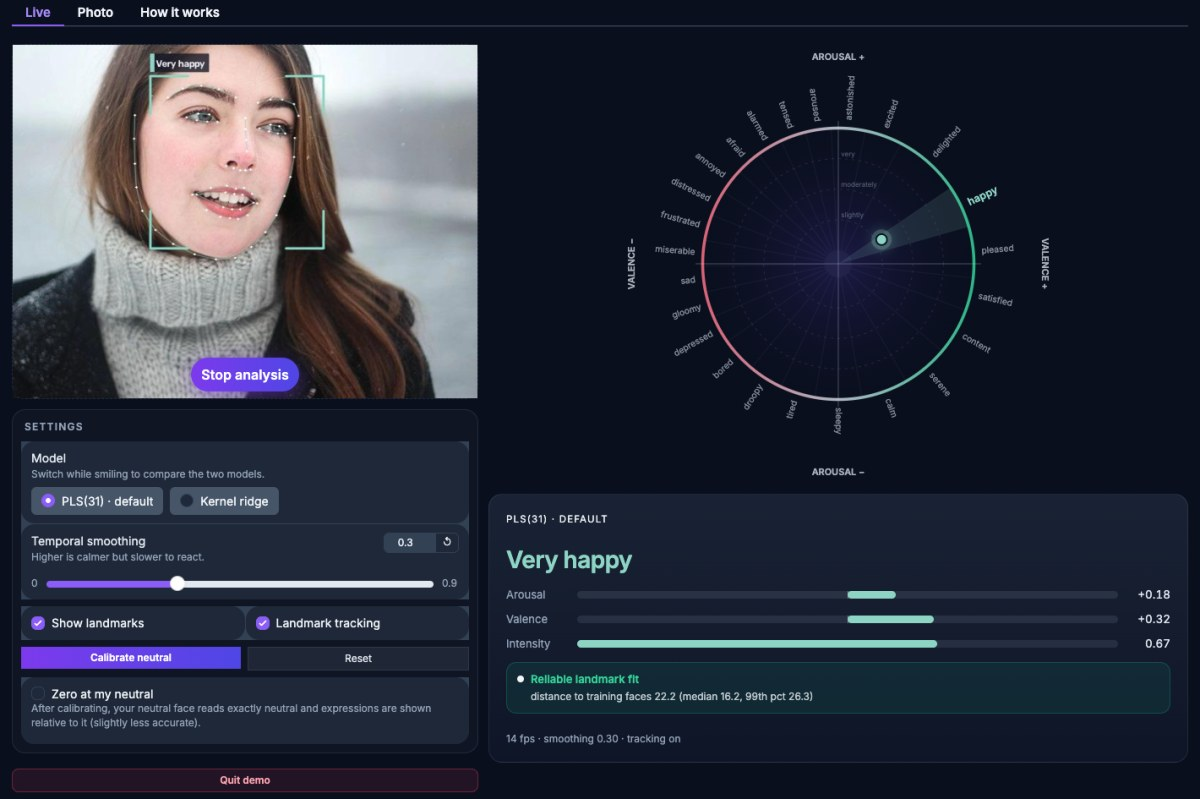
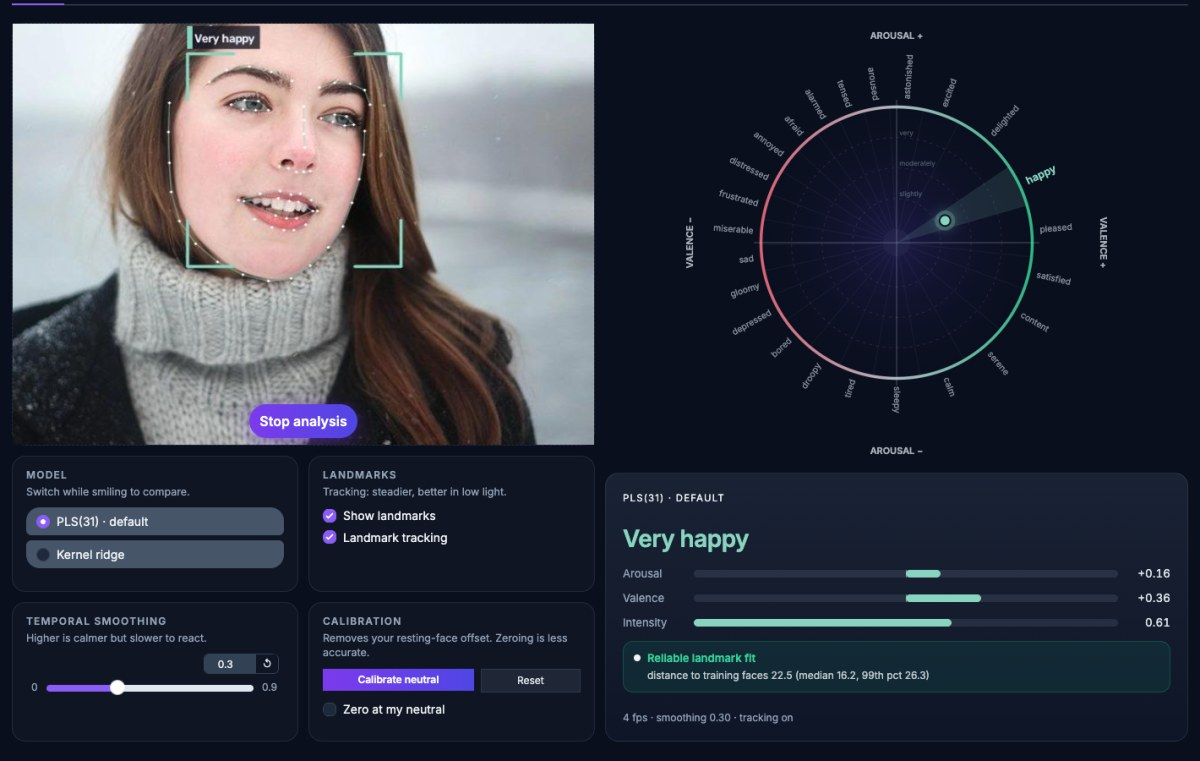
Adaptive blur for the robust fit; grouped, aligned live-tab layout
Tracker: the fixed Gaussian blur made the fit fall short of wide-open
mouths (scream: lip opening 3.9% of the eye distance short), which the
author saw live. The blur now adapts to the face region's measured
noise (Immerkaer estimator): none below 5 grey levels, full strength
(sigma = box/110) at 15. Clean video improves (landmark error 1.44% ->
1.34%); low-light results are unchanged (experiment 13 re-run).

Web demo: settings in four group boxes (model, landmarks, smoothing,
calibration) in a 2x2 grid; Quit in the top-right corner; equal 50/50
columns whose bottoms line up (the AV plane now fills its column);
camera 500 px high. Geometry verified identical across streaming,
countdown, calibrated, zero mode and stopped, at 1440 and 1200 px; the
layout stacks on phones.

Claude-Session: https://claude.ai/code/session_01VNTeVae7v3LQXi4TSodUKv

diff --git a/app/style.css b/app/style.css
@@ -263,3 +263,39 @@ button[role="tab"][aria-selected="true"] { color: var(--fea-accent) !important; 
 .fea-col > *, .fea-plane { flex: 0 0 auto !important; }
 .fea-cam { height: 420px !important; max-height: 420px !important; }
 .fea-settings-block > div:not(.block) { border: none !important; background: transparent !important; padding: 0 !important; box-shadow: none !important; }
+
+
+/* ------------------------------------------------------------------ live layout v3 */
+/* Quit sits in the page's top-right corner */
+.fea-topbar { position: absolute !important; top: 14px; right: 20px; z-index: 50; width: auto !important; min-width: 0 !important; flex-grow: 0 !important; }
+.fea-topbar .fea-quit, .fea-topbar button { width: auto !important; min-width: 0 !important; padding: 4px 14px !important; }
+/* the two columns end at the same line: the last panel of each column fills */
+.fea-grid-row { align-items: stretch !important; }
+.fea-col-left > .fea-settings { flex: 1 1 auto !important; }
+.fea-col-right > .block:last-child { flex: 1 1 auto !important; display: flex !important; flex-direction: column; }
+.fea-col-right > .block:last-child > .html-container,
+.fea-col-right > .block:last-child .prose { flex: 1 1 auto; display: flex; flex-direction: column; height: 100%; }
+.fea-col-right .fea-est { flex: 1 1 auto; height: auto !important; min-height: 318px; }
+.fea-cam { height: 500px !important; max-height: 500px !important; }
+/* settings: four group boxes, 2 x 2 */
+.fea-settings { gap: 12px !important; padding: 0 !important; background: transparent !important; border: none !important; }
+.fea-settings-row { flex: 1 1 auto !important; gap: 12px !important; align-items: stretch !important; flex-wrap: wrap; }
+.fea-settings-row > .fea-group { flex: 1 1 240px !important; min-width: 220px !important; }
+.fea-settings-row > .fea-group {
+  background: var(--fea-card) !important; border: 1px solid var(--fea-border) !important;
+  border-radius: 16px !important; padding: 14px 16px !important;
+}
+/* Gradio repeats the class on an inner div: that one, and the form inside, stay plain */
+.fea-group .fea-group { background: transparent !important; border: none !important; padding: 0 !important; border-radius: 0 !important; }
+.fea-group .styler { background: transparent !important; gap: 10px !important; }
+.fea-group .form { background: transparent !important; border: none !important; gap: 6px !important; }
+.fea-group .block { background: transparent !important; border: none !important; box-shadow: none !important; padding: 0 !important; }
+.fea-group-head .fea-section-title { padding: 0 !important; }
+.fea-group-hint { font-size: 12.5px; color: var(--fea-muted); line-height: 1.4; margin-top: 2px; }
+.fea-radio-stack .wrap { flex-direction: column !important; align-items: stretch !important; gap: 6px !important; }
+.fea-radio-stack label { width: 100%; }
+.fea-group .fea-calib-row { gap: 8px !important; flex-wrap: nowrap; }
+.fea-group .fea-slider { padding: 0 6px !important; }
+.fea-group .fea-calib-row > * { flex: 1 1 0 !important; min-width: 0 !important; }
+.fea-group .fea-calib-row > .fea-calibrate { flex-grow: 1.6 !important; }
+.fea-group .fea-calib-row button { min-width: 0 !important; white-space: nowrap; overflow: hidden; text-overflow: ellipsis; }

diff --git a/app/app.py b/app/app.py
@@ -274,21 +274,37 @@ FORCE_DARK = """
 
 
 # ----------------------------------------------------------------------------- layout
+CAM_HEIGHT = 500
+
+
+def _group_title(title: str, hint: str) -> None:
+    gr.HTML(
+        f'<div class="fea-section-title">{title}</div><div class="fea-group-hint">{hint}</div>',
+        elem_classes="fea-html-plain fea-group-head",
+    )
+
+
 def build() -> gr.Blocks:
     with gr.Blocks(title="Facial Expression Analysis", fill_width=True) as demo:
+        if ALLOW_QUIT:  # top-right corner of the page, away from the settings
+            with gr.Row(elem_classes="fea-topbar"):
+                quit_btn = gr.Button(
+                    "Quit demo", variant="stop", size="sm", elem_classes="fea-quit"
+                )
+            quit_btn.click(quit_app, None, None, queue=False).then(None, None, None, js=GOODBYE_JS)
         gr.HTML(HERO, elem_classes="fea-html-plain")
         with gr.Tabs():
             with gr.Tab("Live", id="live"):
                 state = gr.State(LiveState())
-                # Two columns that stack independently (no gaps):
-                #   camera + settings (40%)  |  AV plane + estimates (60%)
-                with gr.Row(equal_height=False, elem_classes="fea-grid-row"):
-                    with gr.Column(scale=2, min_width=300, elem_classes="fea-col"):
+                # Two equal columns whose bottoms line up:
+                #   camera + settings  |  AV plane + estimates
+                with gr.Row(equal_height=True, elem_classes="fea-grid-row"):
+                    with gr.Column(scale=1, min_width=320, elem_classes="fea-col fea-col-left"):
                         with gr.Column(elem_classes="fea-stage"):
                             cam = gr.Image(
                                 sources=["webcam"], streaming=True, type="numpy",
                                 show_label=False, webcam_options=gr.WebcamOptions(mirror=True),
-                                elem_classes="fea-cam", height=420,
+                                elem_classes="fea-cam", height=CAM_HEIGHT,
                             )  # fmt: skip
                             # Drawn exactly over the raw preview, so the user sees one feed;
                             # the camera's own start/stop button stays on top (see style.css).
@@ -296,33 +312,45 @@ def build() -> gr.Blocks:
                                 show_label=False, interactive=False, buttons=[], format="jpeg",
                                 elem_classes="fea-overlay",
                             )  # fmt: skip
-                        with gr.Group(elem_classes="fea-settings-block"):
-                            gr.HTML(
-                                '<div class="fea-section-title">Settings</div>',
-                                elem_classes="fea-html-plain",
-                            )
-                            model = gr.Radio(
-                                list(MODELS), value=DEFAULT_MODEL, label="Model",
-                                info="Switch while smiling to compare the two models.",
-                            )  # fmt: skip
-                            smoothing = gr.Slider(
-                                0, 0.9, value=0.3, step=0.05, label="Temporal smoothing",
-                                info="Higher is calmer but slower to react.",
-                            )  # fmt: skip
-                            with gr.Row(elem_classes="fea-check-row"):
-                                show_lm = gr.Checkbox(True, label="Show landmarks")
-                                tracking = gr.Checkbox(True, label="Landmark tracking")
-                            with gr.Row(elem_classes="fea-calib-row"):
-                                calibrate_btn = gr.Button(
-                                    "Calibrate neutral", size="sm", elem_classes="fea-calibrate"
-                                )
-                                reset_btn = gr.Button("Reset", size="sm", elem_classes="fea-reset")
-                            zero = gr.Checkbox(
-                                False, label="Zero at my neutral",
-                                info="After calibrating, your neutral face reads exactly "
-                                "neutral and expressions are shown relative to it "
-                                "(slightly less accurate).",
-                            )  # fmt: skip
+                        # Settings: four group boxes in a 2 x 2 grid
+                        with gr.Column(elem_classes="fea-settings"):
+                            with gr.Row(equal_height=True, elem_classes="fea-settings-row"):
+                                with gr.Group(elem_classes="fea-group"):
+                                    _group_title("Model", "Switch while smiling to compare.")
+                                    model = gr.Radio(
+                                        list(MODELS), value=DEFAULT_MODEL, show_label=False,
+                                        elem_classes="fea-radio-stack",
+                                    )  # fmt: skip
+                                with gr.Group(elem_classes="fea-group"):
+                                    _group_title(
+                                        "Landmarks", "Tracking: steadier, better in low light."
+                                    )
+                                    show_lm = gr.Checkbox(True, label="Show landmarks")
+                                    tracking = gr.Checkbox(True, label="Landmark tracking")
+                            with gr.Row(equal_height=True, elem_classes="fea-settings-row"):
+                                with gr.Group(elem_classes="fea-group"):
+                                    _group_title(
+                                        "Temporal smoothing",
+                                        "Higher is calmer but slower to react.",
+                                    )
+                                    smoothing = gr.Slider(
+                                        0, 0.9, value=0.3, step=0.05, show_label=False,
+                                        elem_classes="fea-slider",
+                                    )  # fmt: skip
+                                with gr.Group(elem_classes="fea-group"):
+                                    _group_title(
+                                        "Calibration",
+                                        "Removes your resting-face offset. Zeroing is less accurate.",
+                                    )
+                                    with gr.Row(elem_classes="fea-calib-row"):
+                                        calibrate_btn = gr.Button(
+                                            "Calibrate neutral", size="sm",
+                                            elem_classes="fea-calibrate",
+                                        )  # fmt: skip
+                                        reset_btn = gr.Button(
+                                            "Reset", size="sm", elem_classes="fea-reset"
+                                        )
+                                    zero = gr.Checkbox(False, label="Zero at my neutral")
                         # Clicks reach the stream as counters, so a click can never be
                         # overwritten by a frame that is still being processed.
                         calibrate_clicks = gr.Number(0, visible=False)
@@ -333,15 +361,7 @@ def build() -> gr.Blocks:
                         reset_btn.click(
                             lambda n: (n or 0) + 1, reset_clicks, reset_clicks, queue=False
                         )
-                        if ALLOW_QUIT:
-                            quit_btn = gr.Button(
-                                "Quit demo", variant="stop", size="sm",
-                                elem_classes="fea-quit",
-                            )  # fmt: skip
-                            quit_btn.click(quit_app, None, None, queue=False).then(
-                                None, None, None, js=GOODBYE_JS
-                            )
-                    with gr.Column(scale=3, min_width=380, elem_classes="fea-col"):
+                    with gr.Column(scale=1, min_width=320, elem_classes="fea-col fea-col-right"):
                         with gr.Column(elem_classes="fea-plane"):
                             live_circ = gr.HTML(
                                 _wrap_svg(circumplex_svg(size=640)),

diff --git a/src/facial_expression_analysis/landmarks/dlib_detector.py b/src/facial_expression_analysis/landmarks/dlib_detector.py
@@ -22,6 +22,15 @@ TARGET_FACE_CONTRAST = 43.7
 # Detection images whose 1st-99th percentile grey-level range is narrower than this are
 # stretched linearly to 0..255 before running the HOG detector.
 MIN_DETECTION_RANGE = 150.0
+# Adaptive Gaussian blur before a robust fit, against sensor noise. Its sigma is
+# (box width / BLUR_DIVISOR) x a ramp from 0 at NOISE_NO_BLUR to 1 at NOISE_FULL_BLUR, where
+# noise is the face region's noise std in grey levels (after the contrast gain). A fixed blur
+# makes the fitter under-reach wide-open mouths in good light; noise levels measured on
+# simulated video: well lit < 5 (sharp photos 2-5), dim ~7, night with auto-gain ~15.
+BLUR_DIVISOR = 110.0
+NOISE_NO_BLUR = 5.0
+NOISE_FULL_BLUR = 15.0
+_LAPLACIAN_NOISE_KERNEL = np.array([[1, -2, 1], [-2, 4, -2], [1, -2, 1]], dtype=np.float32)
 # Relative box offsets (dx, dy as a fraction of the box width) of the averaged fits.
 _FIT_OFFSETS = ((0.0, 0.0), (0.04, 0.0), (-0.04, 0.0), (0.0, 0.04), (0.0, -0.04))
 
@@ -38,6 +47,8 @@ class LandmarkFit:
 
     landmarks: NDArray[np.float64]
     spread: float
+    noise: float = 0.0
+    """Estimated noise std of the face region in grey levels (robust fits only)."""
 
 
 def _box_array(box: BoxLike) -> NDArray[np.float64]:
@@ -147,7 +158,9 @@ class DlibLandmarkDetector:
         * a linear contrast gain (never a reduction) brings the face box to the contrast
           of a well-lit face, because dlib's fitter compares raw pixel differences with
           fixed thresholds and loses accuracy on dim, flat faces;
-        * a slight Gaussian blur (sigma = box width / 110 px) suppresses sensor noise;
+        * an adaptive Gaussian blur suppresses sensor noise: none on a clean face (a blur
+          would stop the fit from reaching wide-open mouths), up to sigma = box width /
+          110 px when the face region is very noisy;
         * the fit is repeated from five slightly shifted boxes and averaged, which halves
           frame-to-frame jitter; their disagreement is returned as ``spread``.
         """
@@ -166,12 +179,17 @@ class DlibLandmarkDetector:
             return LandmarkFit(self._fit_once(gray, b), 1.0)
         crop: NDArray[np.float32] = gray[y0:y1, x0:x1].astype(np.float32)
         inner = gray[int(max(b[1], 0)) : int(max(b[3], 1)), int(max(b[0], 0)) : int(max(b[2], 1))]
+        gain = 1.0
         if inner.size:
             std = float(inner.std())
             if std < TARGET_FACE_CONTRAST:
                 gain = TARGET_FACE_CONTRAST / max(std, 1.0)
                 crop = ((crop - float(inner.mean())) * gain + 128.0).astype(np.float32)
-        crop = np.asarray(cv2.GaussianBlur(crop, (0, 0), w / 110.0), dtype=np.float32)
+        noise = estimate_noise(inner.astype(np.float32)) * gain if inner.size else 0.0
+        ramp = (noise - NOISE_NO_BLUR) / (NOISE_FULL_BLUR - NOISE_NO_BLUR)
+        sigma = w / BLUR_DIVISOR * float(np.clip(ramp, 0.0, 1.0))
+        if sigma > 0.05:
+            crop = np.asarray(cv2.GaussianBlur(crop, (0, 0), sigma), dtype=np.float32)
         img = np.ascontiguousarray(np.clip(np.round(crop), 0, 255).astype(np.uint8))
 
         offset = np.array([x0, y0, x0, y0], dtype=np.float64)
@@ -182,7 +200,17 @@ class DlibLandmarkDetector:
         mean = fits.mean(axis=0)
         io = float(np.linalg.norm(mean[36] - mean[45]))
         spread = float(np.sqrt(((fits - mean) ** 2).sum(-1).mean(0)).mean() / max(io, 1e-6))
-        return LandmarkFit(mean + offset[:2], spread)
+        return LandmarkFit(mean + offset[:2], spread, noise)
+
+
+def estimate_noise(image: NDArray[np.float32]) -> float:
+    """Noise standard deviation of an image (Immerkaer, CVIU 1996): fast and edge-robust."""
+    import cv2
+
+    if min(image.shape[:2]) < 3:
+        return 0.0
+    response = cv2.filter2D(np.asarray(image, dtype=np.float32), -1, _LAPLACIAN_NOISE_KERNEL)
+    return float(np.sqrt(np.pi / 2) * np.abs(response[1:-1, 1:-1]).mean() / 6.0)
 
 
 def to_gray(image: NDArray[np.uint8]) -> NDArray[np.uint8]:

diff --git a/tests/test_tracker.py b/tests/test_tracker.py
@@ -131,3 +131,15 @@ def test_tracker_follows_a_moving_face_and_drops_it_when_it_leaves(frame) -> Non
     tracker.reset()
     assert tracker.frame == 0
     assert tracker.tracks == []
+
+
+def test_noise_estimate_tracks_added_noise() -> None:
+    from facial_expression_analysis.landmarks.dlib_detector import estimate_noise
+
+    rng = np.random.default_rng(0)
+    yy, xx = np.mgrid[0:120, 0:120]
+    smooth = (128 + 60 * np.sin(xx / 15.0) * np.cos(yy / 20.0)).astype(np.float32)
+    assert estimate_noise(smooth) < 1.0
+    for sigma in (5.0, 15.0):
+        noisy = smooth + rng.normal(0, sigma, smooth.shape).astype(np.float32)
+        assert abs(estimate_noise(noisy) - sigma) < 0.15 * sigma

diff --git a/README.md b/README.md
@@ -66,14 +66,16 @@ scripts/web_demo.sh --share    # also prints a temporary public link (e.g. to tr
 ```
 
 - **Live** tab: click *Click to Access Webcam*, then *Start analysis*. It shows up to four
-  faces, each with its own colour and trail on the arousal-valence plane. Settings:
-  - **Model** switches between PLS(31) and kernel ridge on the same input.
-  - **Temporal smoothing** trades calm against reaction speed.
-  - **Show landmarks** toggles the landmark overlay.
-  - **Landmark tracking** (on by default) keeps the landmarks steadier and helps in low light.
-  - **Calibrate neutral** removes your resting-face offset after a 3-second countdown. Keep a
-    relaxed face.
-  - **Zero at my neutral** makes your calibrated neutral read exactly (0, 0, 0).
+  faces, each with its own colour and trail on the arousal-valence plane. The settings are in
+  four boxes:
+  - **Model:** PLS(31) or kernel ridge, switchable on the same input.
+  - **Landmarks:** *Show landmarks* toggles the overlay; *Landmark tracking* (on by default)
+    keeps the landmarks steadier and helps in low light.
+  - **Temporal smoothing:** trades calm against reaction speed.
+  - **Calibration:** *Calibrate neutral* removes your resting-face offset after a 3-second
+    countdown (keep a relaxed face); *Reset* clears it; *Zero at my neutral* makes your
+    calibrated neutral read exactly (0, 0, 0).
+  - *Quit demo* (top-right corner) stops the local server.
 - **Photo** tab: upload a photo or pick an example. Every face is analysed, and each gets a
   landmark-fit reliability badge.
 - **How it works** tab: the method in brief.
@@ -266,7 +268,12 @@ smoothing, with no CLAHE or other local enhancement that would distort the face:
 
 - **Contrast gain:** if the face box is dimmer than a typical well-lit face (grey-level std
   < 43.7), it gets a linear contrast gain. Contrast is never reduced.
-- **Blur:** a slight Gaussian blur (σ = box width / 110 px) suppresses sensor noise.
+- **Adaptive blur:** the noise in the face region is measured on every frame (Immerkær's
+  estimator), and a Gaussian blur is applied only as far as needed. There is none below a noise
+  level of 5 grey levels, rising to σ = box width / 110 px at 15 (a dark room with camera
+  auto-gain). A fixed blur made the fit fall short of wide-open mouths (a scream's lip opening
+  was 3.9% of the eye distance short); adaptive blur removes that in good light and keeps the
+  full noise suppression in the dark.
 - **Averaging:** the fit is repeated from five boxes shifted by ±4% and averaged.
 - **Spread as a loss signal:** the disagreement between those five fits (*spread*) is below
   2% on faces and above 3% when the box no longer holds a face. Above 3% on two frames in a
@@ -283,11 +290,11 @@ model:
 | Condition | Pipeline | Landmark error | Landmark jitter | A/V jitter | Frames without a face |
 |---|---|---|---|---|---|
 | Clean | detector every frame (v1) | 1.58% | 1.44% | 0.171 | 0.1% |
-| Clean | **tracker** | **1.44%** | **0.73%** | **0.096** | **0.0%** |
+| Clean | **tracker** | **1.34%** | **0.76%** | **0.096** | **0.0%** |
 | Night, camera auto-gain | detector every frame | 2.84% | 2.92% | 0.236 | 10.2% |
-| Night, camera auto-gain | **tracker** | **1.58%** | **1.16%** | **0.113** | **5.6%** |
+| Night, camera auto-gain | **tracker** | **1.57%** | **1.16%** | **0.113** | **5.8%** |
 | Dark, no auto-gain | detector every frame | 9.86% | 4.48% | 0.168 | 50.1% |
-| Dark, no auto-gain | **tracker** | **1.66%** | **1.15%** | **0.113** | **5.3%** |
+| Dark, no auto-gain | **tracker** | **1.62%** | **1.18%** | **0.113** | **5.3%** |
 
 The tracker is also about twice as fast: 5.9 ms against 12.3 ms per 640 px frame. Single
 photos keep the plain fit, so their landmarks match the ones the models were trained on.

diff --git a/CHANGELOG.md b/CHANGELOG.md
@@ -93,8 +93,10 @@
   and per model, with a countdown and checks for non-neutral faces and poor fits (see the
   model card). The optional **Zero at my neutral** mode maps a calibrated face's own neutral
   to exactly (0, 0, 0), at a measured accuracy cost. Models now store `neutral_mean`.
-- Web demo layout is fixed: two independent columns (camera and settings | AV plane and
-  estimates); status appears only as tags, so no panel appears, disappears or moves.
+- Web demo layout is fixed: two equal columns (camera and settings | AV plane and estimates)
+  that end on the same line; settings in four group boxes (model, landmarks, smoothing,
+  calibration); Quit in the top-right corner; status appears only as tags, so no panel
+  appears, disappears or moves.
 - **Gradio web demo** (`app/`). It has live webcam and photo tabs, a custom SVG circumplex
   with the 24 emotion words and a trail, metric cards, a landmark-fit reliability badge and
   a live model switch. `scripts/deploy_space.sh` deploys it as a self-contained Hugging Face
@@ -106,7 +108,8 @@
   via `BoxRegressor`, a linear model trained on LFW to reproduce dlib's detector box
   (IoU 0.87; landmarks match detector-based fits within the detector's own noise floor). Fits
   use a robust mode (`DlibLandmarkDetector.fit(..., robust=True)`): linear contrast gain for
-  dim faces, slight blur, average of five shifted boxes, and a spread score that detects
+  dim faces, a blur that adapts to the measured noise (none in good light, so wide-open
+  mouths are still reached), average of five shifted boxes, and a spread score that detects
   tracking loss. Low-contrast frames are stretched linearly before detection. Simulated
   night-time webcam video: A/V jitter 0.236 → 0.113, landmark error 2.8% → 1.6%, frames
   without a face 10% → 6%; also about 2x faster.

diff --git a/MODEL_CARD.md b/MODEL_CARD.md
@@ -145,8 +145,8 @@ amplifies jitter by 1.2–1.4× and barely moves neutral.
   arousal shift drops from 0.54 to about 0.1), but accuracy still drops away from frontal.
 - **Low light.** dlib's landmark fitter compares raw pixel differences with fixed thresholds,
   so dim, low-contrast or noisy faces fit badly (3x the landmark error in a simulated dim
-  scene). The video tracker compensates with a linear contrast gain, slight blur and fit
-  averaging (`experiments/13_tracking.py`); single photos are fitted without it, to match the
+  scene). The video tracker compensates with a linear contrast gain, a noise-adaptive blur and
+  fit averaging (`experiments/13_tracking.py`); single photos are fitted without it, to match the
   training landmarks.
 - **Landmark quality bounds everything.** Errors on real photos come more often from poor dlib
   fits than from the regressor, for example a wide-open mouth or hands on the face.
